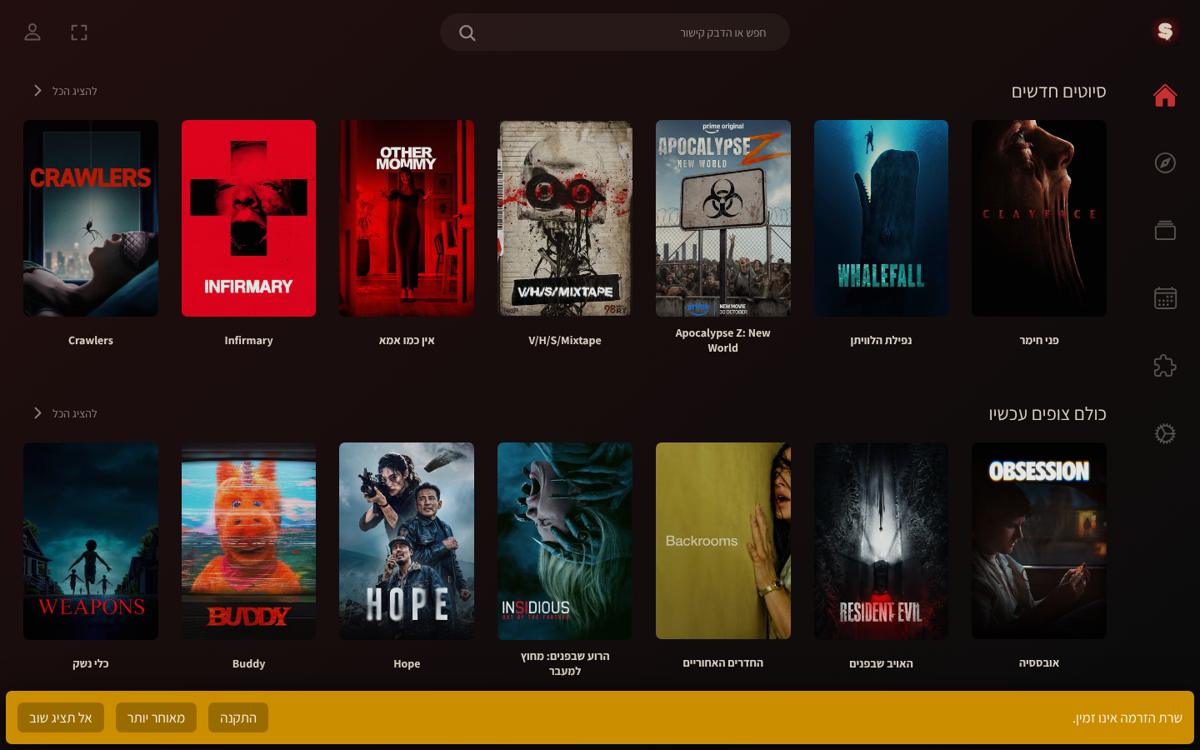
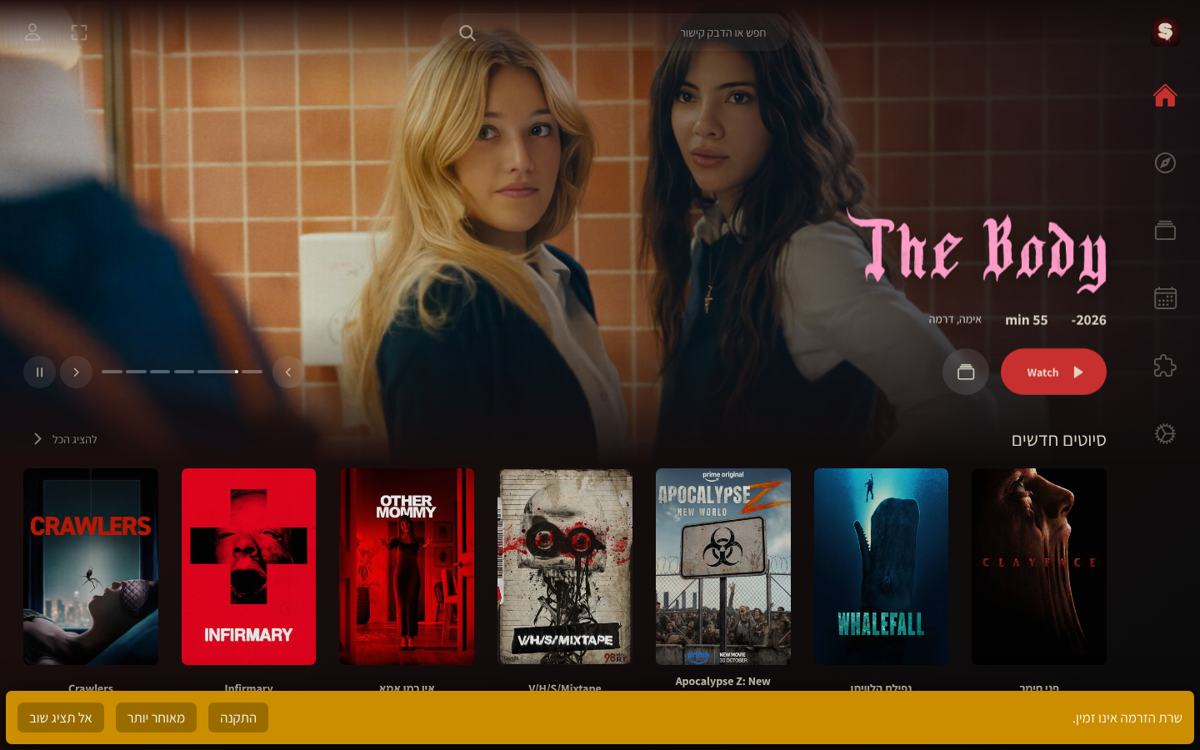
Turn the spotlight on, fed from SCARY's rows
The films of home rows now carry wide artwork and a logo (addresses built
from the IMDb id), which the spotlight needs. SCARY turns the spotlight on
the first time and keeps the viewer's own switch after that.

Claude-Session: https://claude.ai/code/session_01QYnEjHnF8btg76iFqsGgUp

diff --git a/feed/src/addon.ts b/feed/src/addon.ts
@@ -24,6 +24,9 @@ export type MetaPreview = {
     imdbRating?: string,
     genres: string[],
     runtime?: string,
+    /** Wide artwork and the title's logo: only on the films of home rows, which is where the spotlight draws from. */
+    background?: string,
+    logo?: string,
 };
 
 type CatalogExtra = { name: string, isRequired?: boolean, options?: string[] };
@@ -50,7 +53,7 @@ const releaseInfo = (film: Film): string => {
     return film.endYear !== null && film.endYear > film.year ? `${film.year}-${film.endYear}` : String(film.year);
 };
 
-export const toMeta = (film: Film, language: Language): MetaPreview => ({
+export const toMeta = (film: Film, language: Language, withArtwork: boolean = false): MetaPreview => ({
     id: film.imdb,
     type: film.type,
     name: film.titles[language] ?? film.titles.en,
@@ -61,6 +64,10 @@ export const toMeta = (film: Film, language: Language): MetaPreview => ({
     ...(film.rating !== null ? { imdbRating: film.rating.toFixed(1) } : {}),
     genres: [film.thriller ? 'Thriller' : 'Horror', ...film.genres],
     ...(film.minutes > 0 ? { runtime: `${film.minutes} min` } : {}),
+    ...(withArtwork ? {
+        background: `https://images.metahub.space/background/medium/${film.imdb}/img`,
+        logo: `https://images.metahub.space/logo/medium/${film.imdb}/img`,
+    } : {}),
 });
 
 /**
@@ -117,7 +124,7 @@ export const buildLanguage = (feed: Feed, language: Language): Files => {
         if (ofType.length === 0) continue;
         const id = `scary_${row.id}`;
         catalogs.push({ type, id, name: ROW_LABELS[row.id][language] });
-        files.set(`catalog/${type}/${id}.json`, { metas: ofType.map((film) => toMeta(film, language)) });
+        files.set(`catalog/${type}/${id}.json`, { metas: ofType.map((film) => toMeta(film, language, true)) });
     }
 
     for (const type of ['movie', 'series'] as const) {

diff --git a/web/src/scary/content/useScarySetup.ts b/web/src/scary/content/useScarySetup.ts
@@ -148,11 +148,14 @@ const useScarySetup = (profile: Profile): void => {
             .filter(({ type, id }) => (scary.manifest.catalogs ?? []).some((catalog) => catalog.type === type && catalog.id === id))
             .map(({ type, id }) => ({ base: transportUrl, path: { resource: 'catalog', type, id, extra: [] } }));
         if (catalogs.length === 0) return;
+        // Stremio Web ships with the spotlight off. SCARY turns it on the first time; after that (a change of
+        // language moves it to the same rows in the new language) the viewer's own switch is kept.
+        const wasScary = spotlight.catalogs.length > 0 && spotlight.catalogs.every((request) => isScaryTransportUrl(request.base));
         core.transport.dispatch({
             action: 'Ctx',
             args: {
                 action: 'UpdateSettings',
-                args: { ...profile.settings, boardSpotlight: { ...spotlight, catalogs } },
+                args: { ...profile.settings, boardSpotlight: { ...spotlight, enabled: wasScary ? spotlight.enabled : true, catalogs } },
             },
         });
     }, [settled, addons, language, spotlight, profile.settings, core.transport]);

diff --git a/feed/test/feed.test.ts b/feed/test/feed.test.ts
@@ -103,6 +103,9 @@ test('titles follow the language and fall back to English', () => {
     assert.equal(toMeta(shining, 'he').name, 'הניצוץ');
     assert.equal(toMeta(shining, 'ru').name, 'The Shining');
     assert.equal(toMeta(shining, 'he').poster, `https://images.metahub.space/poster/small/${imdb(700_001)}/img`);
+    assert.equal(toMeta(shining, 'he').background, undefined);
+    assert.equal(toMeta(shining, 'he', true).background, `https://images.metahub.space/background/medium/${imdb(700_001)}/img`);
+    assert.equal(toMeta(shining, 'he', true).logo, `https://images.metahub.space/logo/medium/${imdb(700_001)}/img`);
 });
 
 test('pages: both orders of skip and genre, and an empty page at the end', () => {

diff --git a/docs/PLAN.md b/docs/PLAN.md
@@ -231,7 +231,7 @@ stremio-scary/
 | 1 שלד | ✅ קוד · ⏳ CI לא רץ עדיין (Actions כבויים בפורק — פעולה של הבעלים) | בנייה, lint ובדיקות מקומית |
 | 2 מיתוג ועיצוב | ✅ עיקרי | צבעים, גופנים, אייקונים, לוגו, מסכי פתיחה, הודעת "לא רשמי", בלי התחברות. **נשאר:** צילומי המסך ב-`manifest.json`, מחרוזות "Stremio" בתרגומים, באנר "שרת הזרמה" שמפנה להורדה של Stremio |
 | 3 מחולל הפיד | ✅ | 9 בדיקות; הפיד האמיתי: 5,106 כותרים, 15 שורות, 5 שפות, 867 קבצים |
-| 4 אימה בלבד | ✅ עיקרי | בית, גילוי (כולל מסנן תת-ז'אנר) וחיפוש מקומי — נצפו בדפדפן; 0 בקשות ל-Stremio API ולקטלוגים הכלליים. **נשאר:** מד פחד בעמוד הכותר, קישור "הוסף ל-Stremio שלי" |
+| 4 אימה בלבד | ✅ עיקרי | בית עם ספוטלייט ("הסרט של הלילה"), גילוי (כולל מסנן תת-ז'אנר) וחיפוש מקומי — נצפו בדפדפן; 0 בקשות ל-Stremio API ולקטלוגים הכלליים. **נשאר:** מד פחד בעמוד הכותר, קישור "הוסף ל-Stremio שלי" |
 | 5 שפות ו-RTL | ✅ עיקרי | עברית עולה אוטומטית לפי שפת הדפדפן, RTL מלא בבית/גילוי/חיפוש/הגדרות. **נשאר:** כיוון חיצים ואייקונים, סדר "119 min", בדיקת ערבית/רוסית/פורטוגזית בעין, נגן |
 | 6 פרטיות, הסכמה, נגישות, אבטחה | ⏳ | Chromecast ו-Apple כבר לא נטענים; "שומר הרשת" פעיל. **נשאר:** מנהל הסכמה ושער ל-YouTube, CSP, מסמכי מדיניות, הצהרת נגישות, axe |
 | 7 לקראת פרודקשן | ⏳ | |
